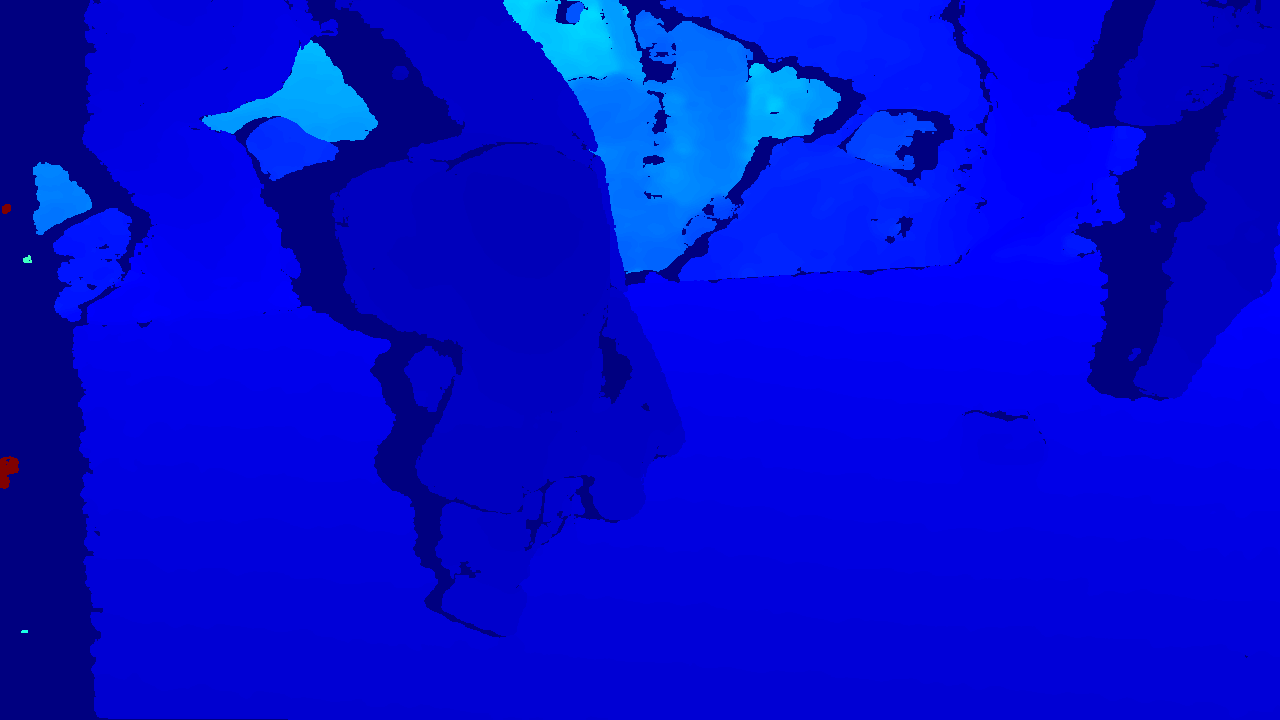
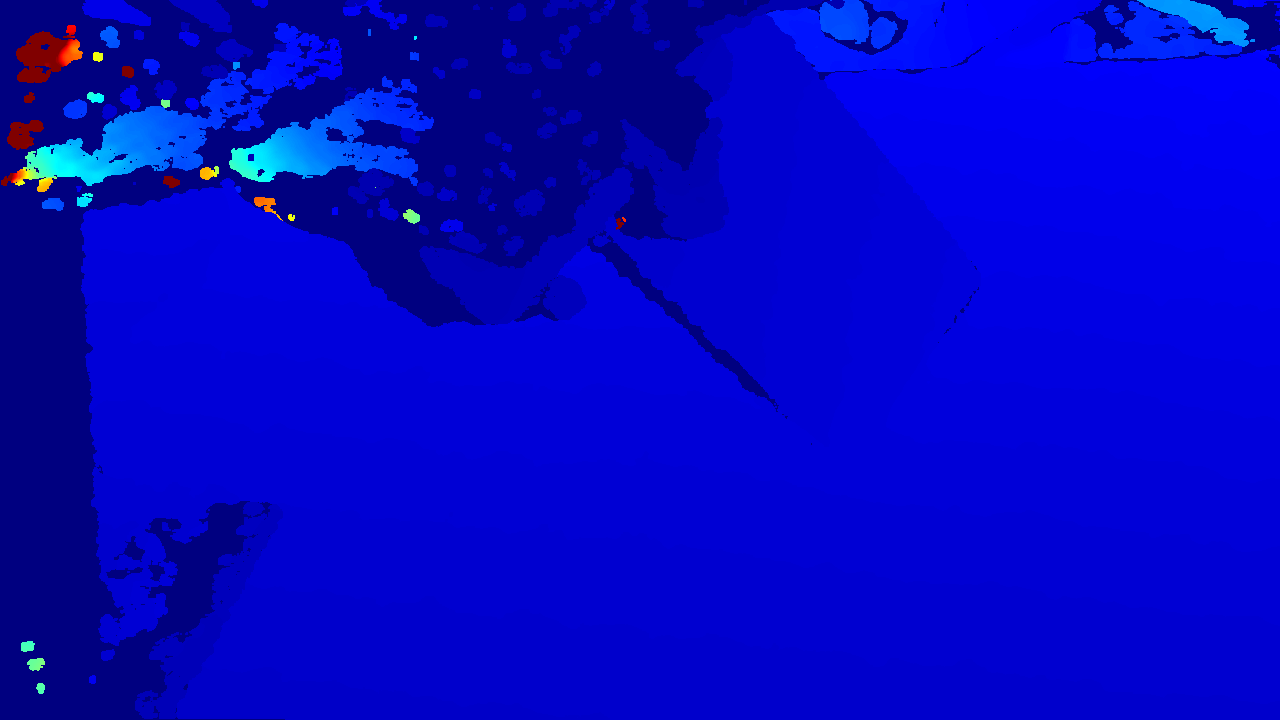
Camera calibration

diff --git a/frames/camera/camera_calibration.py b/frames/camera/camera_calibration.py
@@ -1,0 +1,65 @@
+import numpy as np
+import cv2 as cv
+import glob
+import os
+
+# termination criteria
+criteria = (cv.TERM_CRITERIA_EPS + cv.TERM_CRITERIA_MAX_ITER, 30, 0.001)
+
+# prepare object points, like (0,0,0), (1,0,0), (2,0,0) ....,(6,5,0)
+objp = np.zeros((8*13,3), np.float32)
+objp[:,:2] = np.mgrid[0:8,0:13].T.reshape(-1,2)
+
+# Arrays to store object points and image points from all the images.
+# objpoints = [(0.01, 0.0), (0.09, -0.14), (-0.09, -0.14)] # 3d point in real world space
+# imgpoints = [(666, 398), (620, 265), (798, 290)] # 2d points in image plane.
+objpoints = [] # 3d point in real world space
+imgpoints = [] # 2d points in image plane.
+
+images = glob.glob(os.path.expanduser('~/franka_ws/frames/camera/calibrate/*.png'))
+print(images)
+
+for fname in images:
+    img = cv.imread(fname)
+    gray = cv.cvtColor(img, cv.COLOR_BGR2GRAY)
+
+    # Find the chess board corners
+    ret, corners = cv.findChessboardCorners(gray, (8, 13), None)
+
+    # If found, add object points, image points (after refining them)
+    if ret == True:
+        objpoints.append(objp)
+
+        corners2 = cv.cornerSubPix(gray,corners, (11,11), (-1,-1), criteria)
+        imgpoints.append(corners2)
+
+        # Draw and display the corners
+        cv.drawChessboardCorners(img, (8,13), corners2, ret)
+        cv.imshow('img', img)
+        cv.waitKey()
+
+cv.destroyAllWindows()
+
+# CALIBRATE!!!
+ret, mtx, dist, rvecs, tvecs = cv.calibrateCamera(objpoints, imgpoints, gray.shape[::-1], None, None)
+    
+mean_error = 0
+for i in range(len(objpoints)):
+    imgpoints2, _ = cv.projectPoints(objpoints[i], rvecs[i], tvecs[i], mtx, dist)
+    error = cv.norm(imgpoints[i], imgpoints2, cv.NORM_L2SQR) / len(imgpoints2)
+    mean_error += error
+
+print( "total error: {}".format(np.sqrt(mean_error/len(objpoints))) )
+
+images = glob.glob(os.path.expanduser('~/franka_ws/frames/camera/chessboard.png'))
+for fname in images:
+    img = cv.imread(fname)
+    h,  w = img.shape[:2]
+    newcameramtx, roi = cv.getOptimalNewCameraMatrix(mtx, dist, (w,h), 1, (w,h))
+
+    dst = cv.undistort(img, mtx, dist, None, newcameramtx)
+    
+    # crop the image
+    x, y, w, h = roi
+    dst = dst[y:y+h, x:x+w]
+    cv.imwrite('/home/franka/franka_ws/frames/camera/calibresult.png', dst)